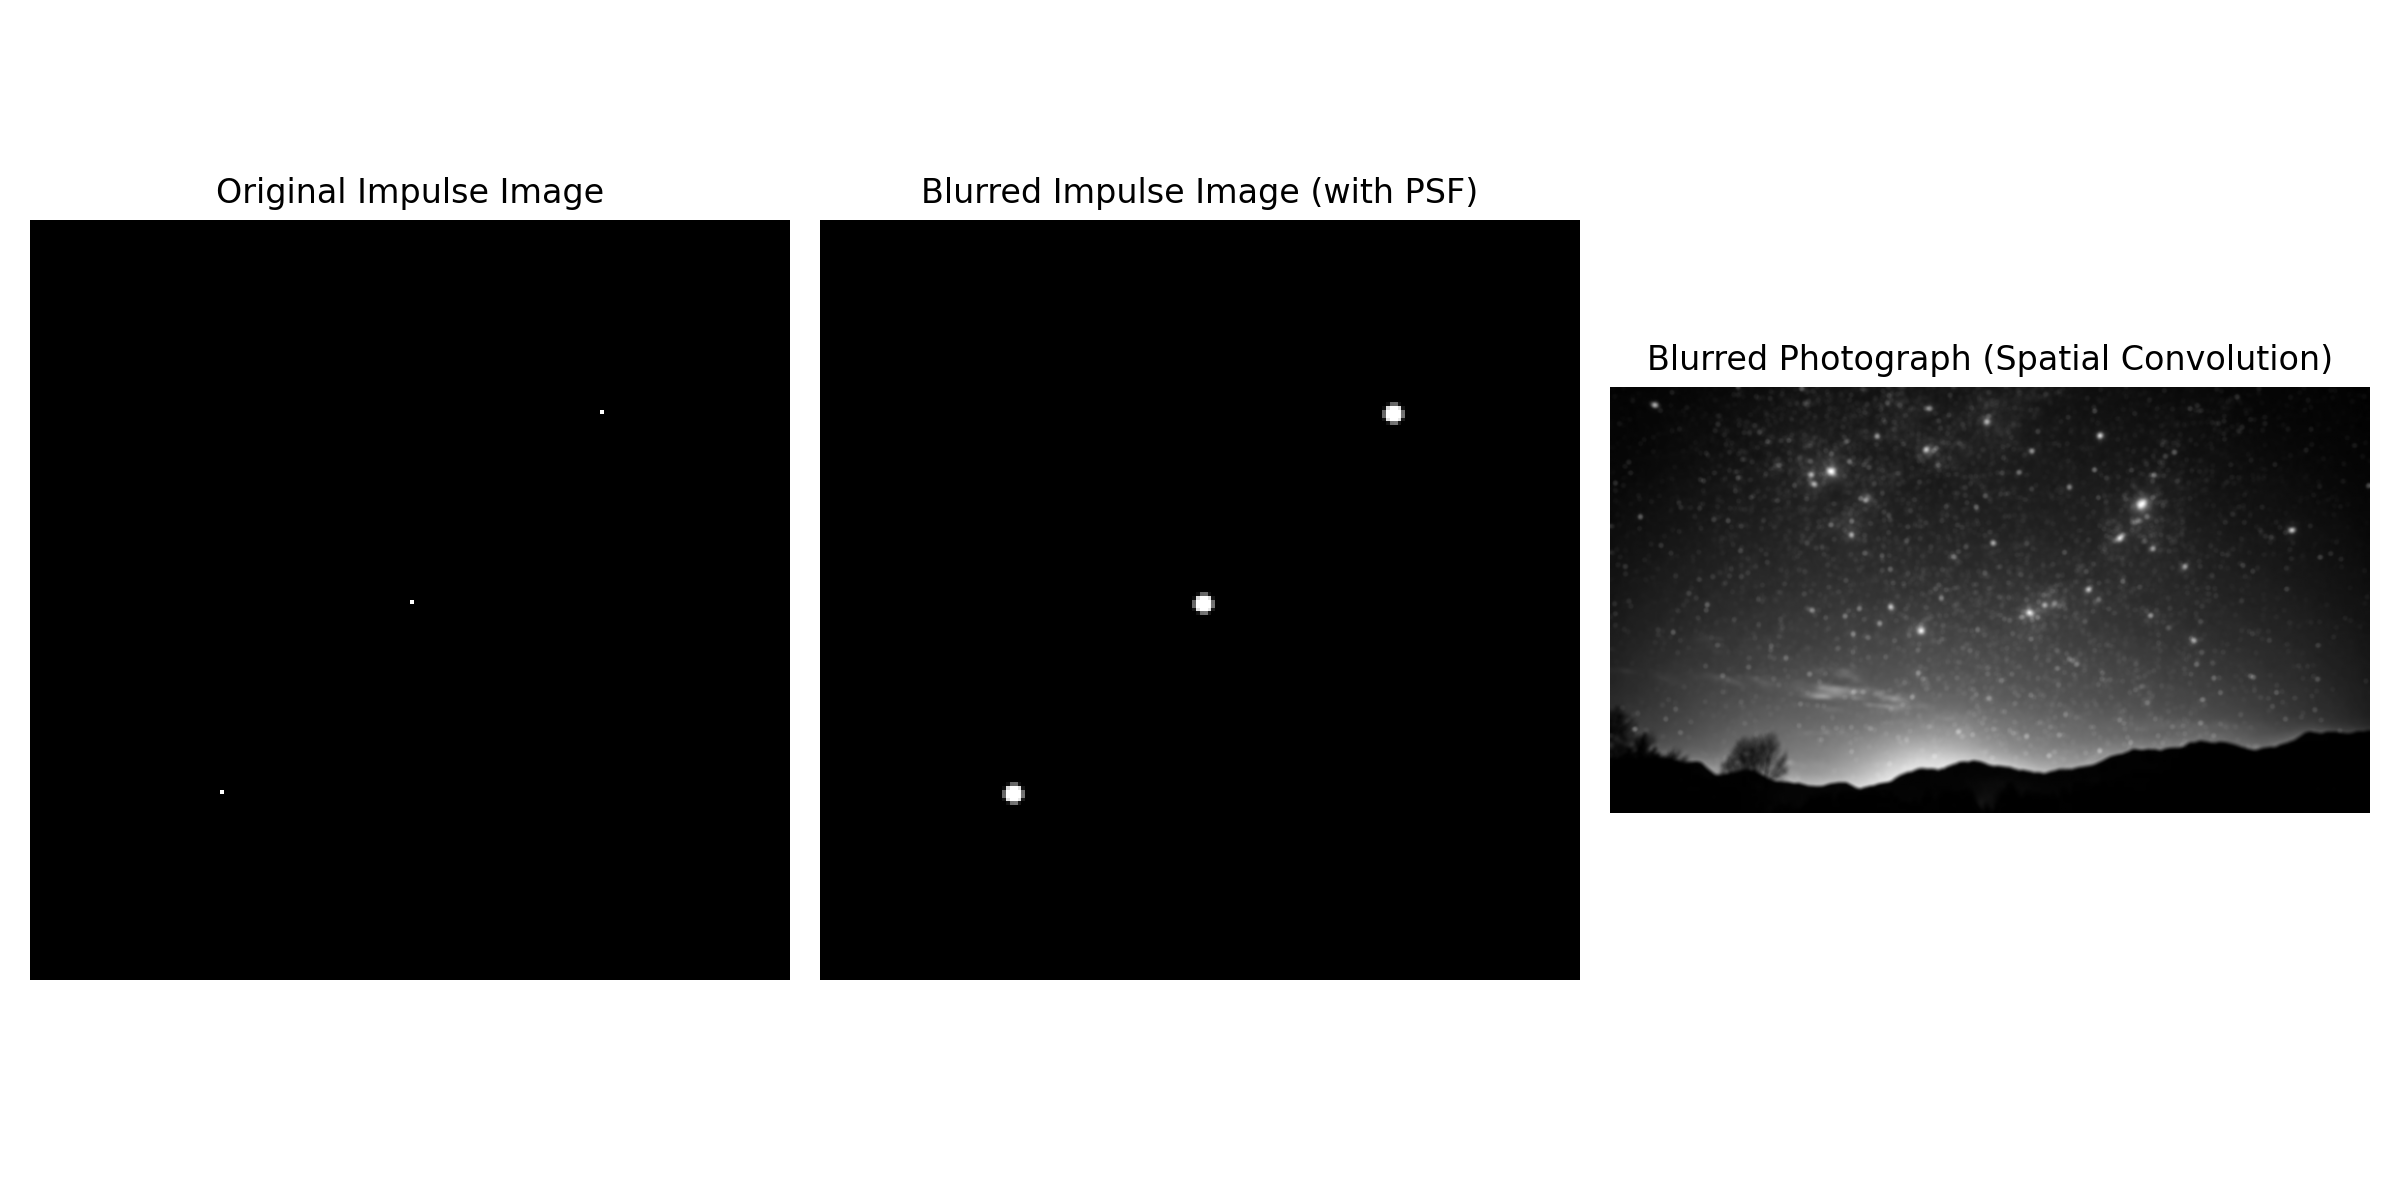
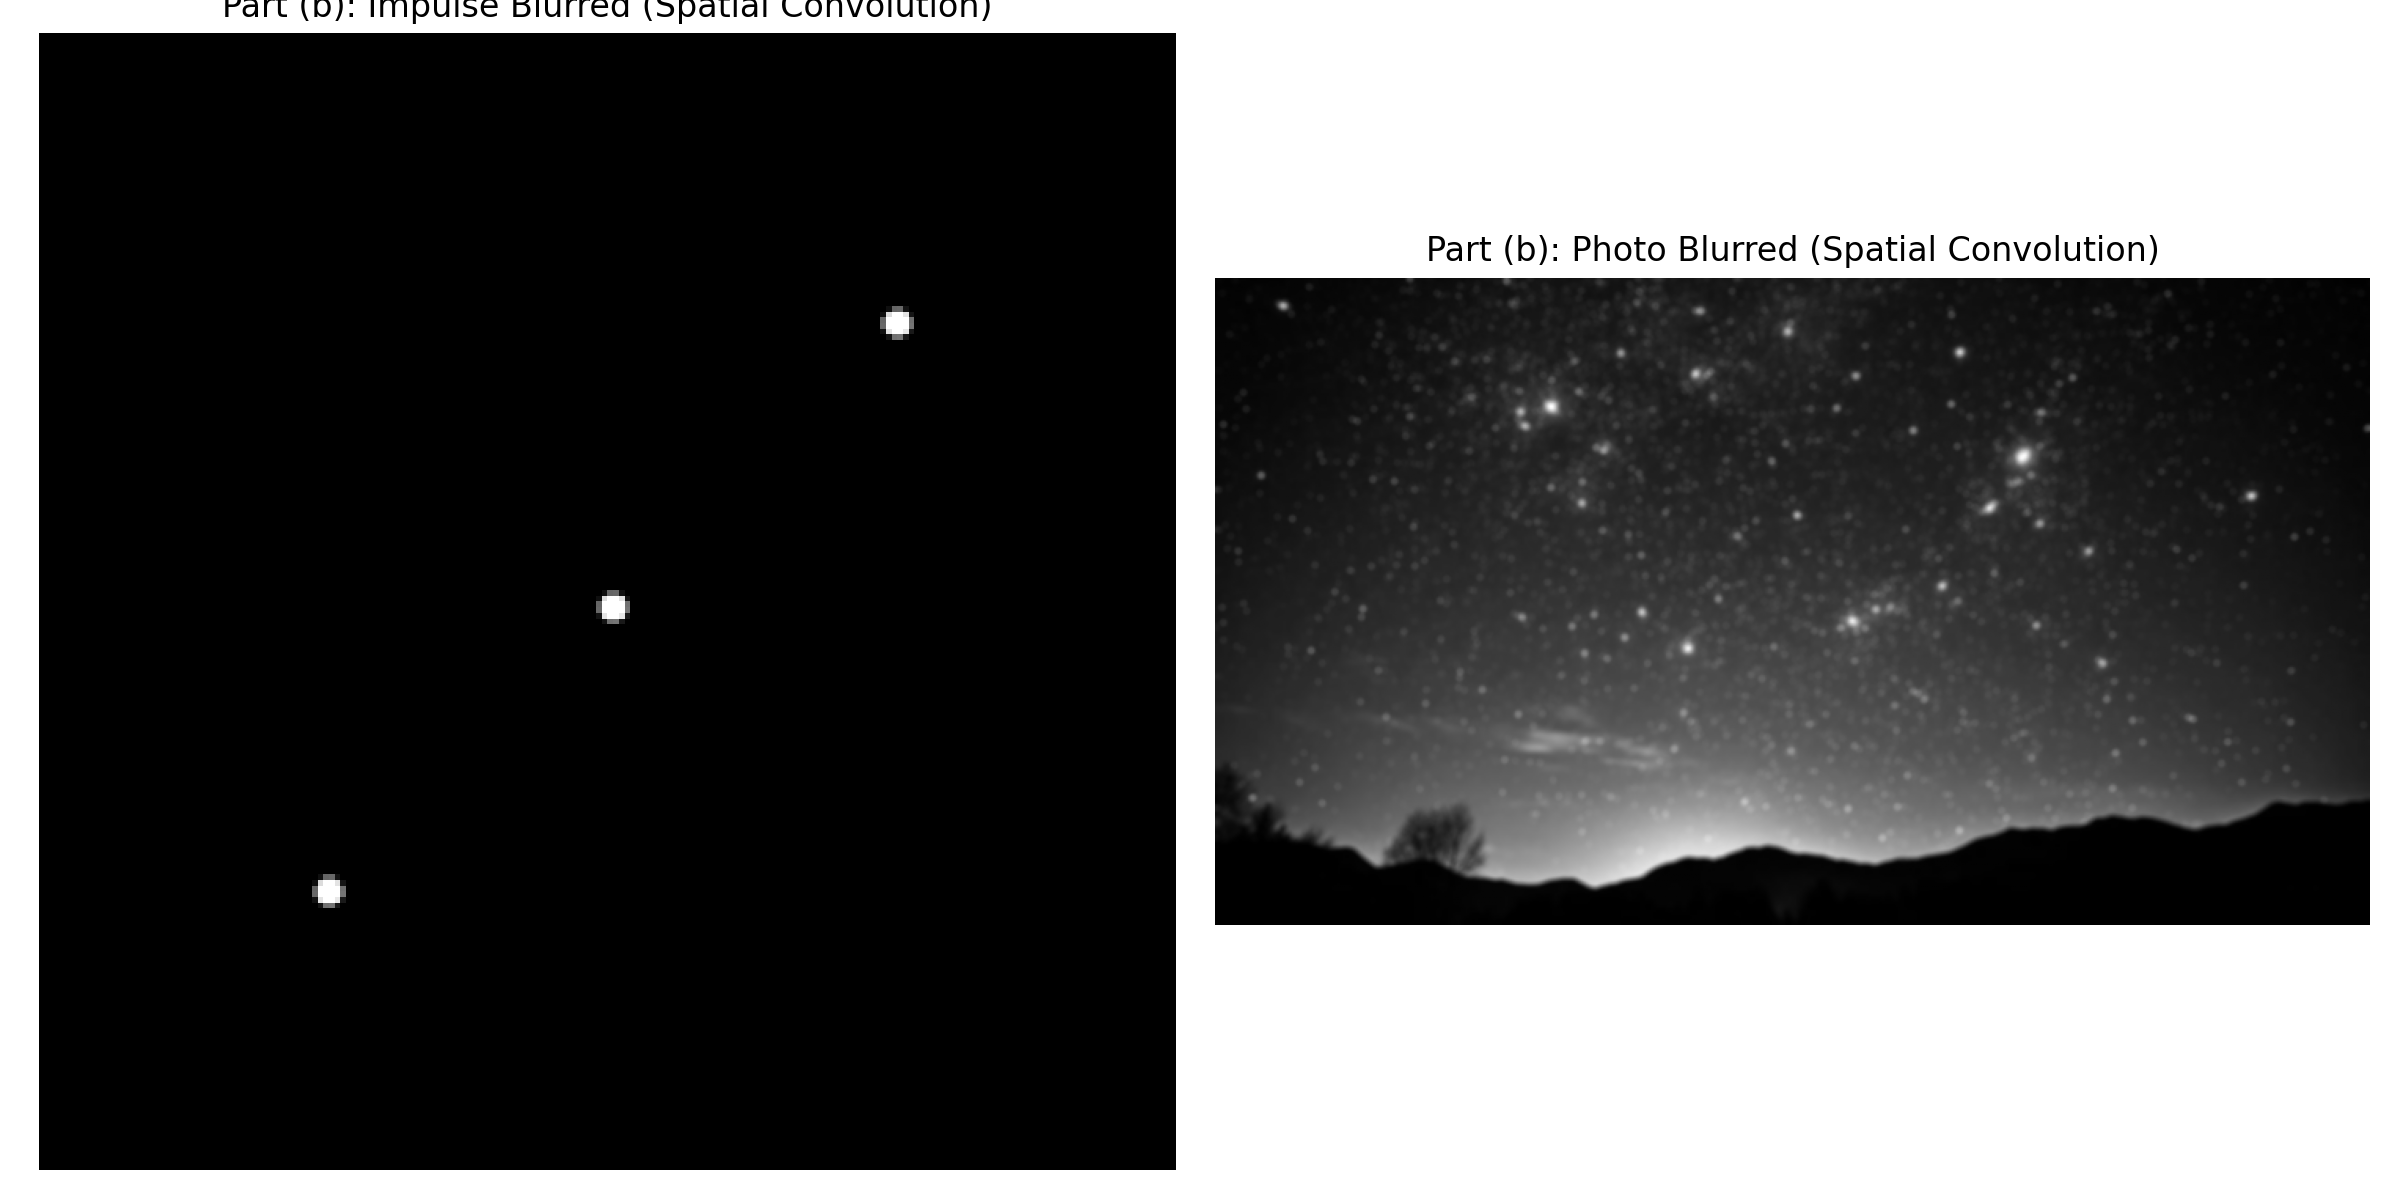
part2-c

diff --git a/part2.py b/part2.py
@@ -65,6 +65,67 @@ def save_image_normalized(img, path):
 def convolve_spatial(img, psf):
     return convolve2d(img, psf, mode='same', boundary='symm')
 
+
+# ==============================
+# PART (C): Frequency-Domain Convolution
+# ==============================
+
+def convolve_frequency(img, psf, output_dir, label):
+    """
+    Perform convolution via FFT (multiplication in frequency domain).
+    Includes zero-padding and shows intermediate results.
+    """
+    H, W = img.shape
+    h, w = psf.shape
+
+    # Pad PSF to image size, center properly
+    psf_padded = np.zeros_like(img)
+    y0, x0 = H//2 - h//2, W//2 - w//2
+    psf_padded[y0:y0+h, x0:x0+w] = psf
+
+    # Compute FFTs
+    F_img = np.fft.fft2(img)
+    F_psf = np.fft.fft2(np.fft.ifftshift(psf_padded))  # center PSF before FFT
+
+    # Multiply in frequency domain
+    F_blurred = F_img * F_psf
+
+    # Inverse FFT to get blurred image
+    blurred = np.real(np.fft.ifft2(F_blurred))
+
+    # --- Save intermediate results ---
+    def spectrum(x):
+        return np.log(1 + np.abs(np.fft.fftshift(x)))
+
+    plt.figure(figsize=(12, 4))
+    plt.subplot(1, 3, 1)
+    plt.imshow(spectrum(F_img), cmap='gray')
+    plt.title("FFT of Image")
+    plt.axis('off')
+
+    plt.subplot(1, 3, 2)
+    plt.imshow(spectrum(F_psf), cmap='gray')
+    plt.title("FFT of PSF")
+    plt.axis('off')
+
+    plt.subplot(1, 3, 3)
+    plt.imshow(spectrum(F_blurred), cmap='gray')
+    plt.title("FFT of Product (Blurred)")
+    plt.axis('off')
+
+    plt.tight_layout()
+    inter_path = os.path.join(output_dir, f"fft_intermediates_{label}.png")
+    plt.savefig(inter_path, dpi=200)
+    plt.show()
+    print(f"✅ Saved intermediate FFT visualization: {inter_path}")
+
+    return blurred
+
+
+# ==============================
+# MAIN
+# ==============================
+
 def main():
     output_dir = "part2_output"
     os.makedirs(output_dir, exist_ok=True)
@@ -80,7 +141,8 @@ def main():
     # -----------------
     # Part (b)
     # -----------------
-    # Create impulse image once and save
+    print("\n=== Running Part (b): Spatial-Domain Convolution ===")
+
     impulse_path = os.path.join(output_dir, "impulse_original.png")
     if not os.path.exists(impulse_path):
         impulse_img = create_impulse_image(size=(200, 200))
@@ -90,47 +152,76 @@ def main():
         impulse_img = cv2.imread(impulse_path, cv2.IMREAD_GRAYSCALE).astype(np.float32) / 255.0
         print(f"Loaded existing impulse image from {impulse_path}")
 
-    # Load a rectangular photograph
     photo_path = "test-images/stars.jpeg"
     photo = cv2.imread(photo_path, cv2.IMREAD_GRAYSCALE)
     if photo is None:
-        raise FileNotFoundError('Cannot find the {photo_path} image.')
+        raise FileNotFoundError(f"Cannot find image {photo_path}")
     photo = photo.astype(np.float32) / 255.0
     print(f"Loaded photograph shape: {photo.shape}")
 
-    # Use smallest PSF (10x10)
     psf_small = psf_versions[10]
 
-    # Convolve with impulse image
-    blurred_impulse = convolve_spatial(impulse_img, psf_small)
-    save_image_normalized(blurred_impulse, os.path.join(output_dir, "blurred_impulse.png"))
+    # Spatial-domain convolution
+    blurred_impulse_spatial = convolve_spatial(impulse_img, psf_small)
+    blurred_photo_spatial = convolve_spatial(photo, psf_small)
+    save_image_normalized(blurred_impulse_spatial, os.path.join(output_dir, "blurred_impulse_spatial.png"))
+    save_image_normalized(blurred_photo_spatial, os.path.join(output_dir, "blurred_photo_spatial.png"))
 
-    # Convolve with real photo
-    blurred_photo = convolve_spatial(photo, psf_small)
-    save_image_normalized(blurred_photo, os.path.join(output_dir, "blurred_photo.png"))
-
-    # Display results
+    # Show results for part (b)
     plt.figure(figsize=(12, 6))
-    plt.subplot(1, 3, 1)
-    plt.imshow(impulse_img, cmap='gray')
-    plt.title("Original Impulse Image")
+    plt.subplot(1, 2, 1)
+    plt.imshow(blurred_impulse_spatial, cmap='gray')
+    plt.title("Part (b): Impulse Blurred (Spatial Convolution)")
     plt.axis('off')
 
-    plt.subplot(1, 3, 2)
-    plt.imshow(blurred_impulse, cmap='gray', vmin=0, vmax=blurred_impulse.max())
-    plt.title("Blurred Impulse Image (with PSF)")
-    plt.axis('off')
-
-    plt.subplot(1, 3, 3)
-    plt.imshow(blurred_photo, cmap='gray')
-    plt.title("Blurred Photograph (Spatial Convolution)")
+    plt.subplot(1, 2, 2)
+    plt.imshow(blurred_photo_spatial, cmap='gray')
+    plt.title("Part (b): Photo Blurred (Spatial Convolution)")
     plt.axis('off')
 
     plt.tight_layout()
     plt.savefig(os.path.join(output_dir, "part2b_results.png"), dpi=200)
     plt.show()
+    print("✅ Part (b) results saved.\n")
 
-    print("✅ Part (b) results saved in:", output_dir)
+    # -----------------
+    # Part (c)
+    # -----------------
+    print("\n=== Running Part (c): Frequency-Domain Convolution ===")
+
+    blurred_impulse_freq = convolve_frequency(impulse_img, psf_small, output_dir, label="impulse")
+    blurred_photo_freq = convolve_frequency(photo, psf_small, output_dir, label="photo")
+
+    save_image_normalized(blurred_impulse_freq, os.path.join(output_dir, "blurred_impulse_freq.png"))
+    save_image_normalized(blurred_photo_freq, os.path.join(output_dir, "blurred_photo_freq.png"))
+
+    # --- Show final comparison for part (c) ---
+    plt.figure(figsize=(10, 8))
+    plt.subplot(2, 2, 1)
+    plt.imshow(blurred_impulse_spatial, cmap='gray')
+    plt.title("Impulse - Spatial Convolution")
+    plt.axis('off')
+
+    plt.subplot(2, 2, 2)
+    plt.imshow(blurred_impulse_freq, cmap='gray')
+    plt.title("Impulse - Frequency Convolution")
+    plt.axis('off')
+
+    plt.subplot(2, 2, 3)
+    plt.imshow(blurred_photo_spatial, cmap='gray')
+    plt.title("Photo - Spatial Convolution")
+    plt.axis('off')
+
+    plt.subplot(2, 2, 4)
+    plt.imshow(blurred_photo_freq, cmap='gray')
+    plt.title("Photo - Frequency Convolution")
+    plt.axis('off')
+
+    plt.tight_layout()
+    plt.savefig(os.path.join(output_dir, "part2c_final_comparison.png"), dpi=200)
+    plt.show()
+
+    print("✅ Part (c) results and comparisons saved in:", output_dir)
 
 
 if __name__ == "__main__":
